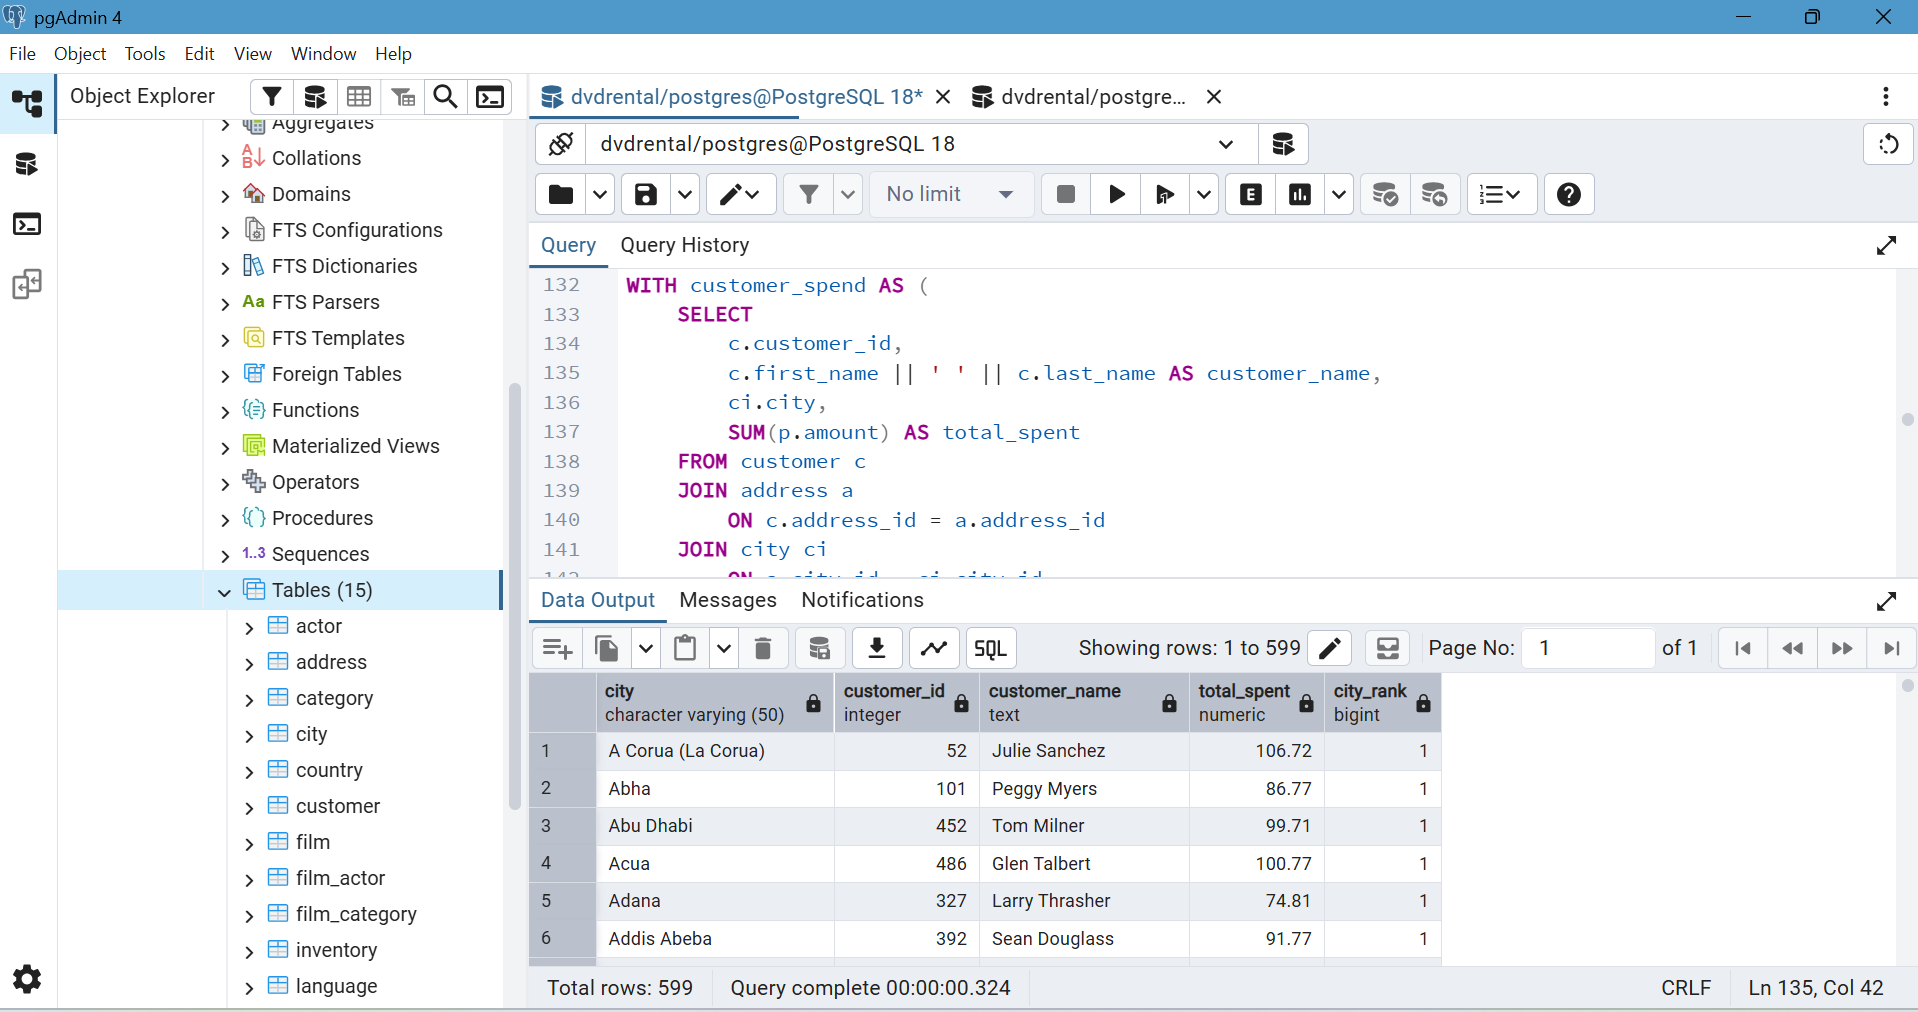
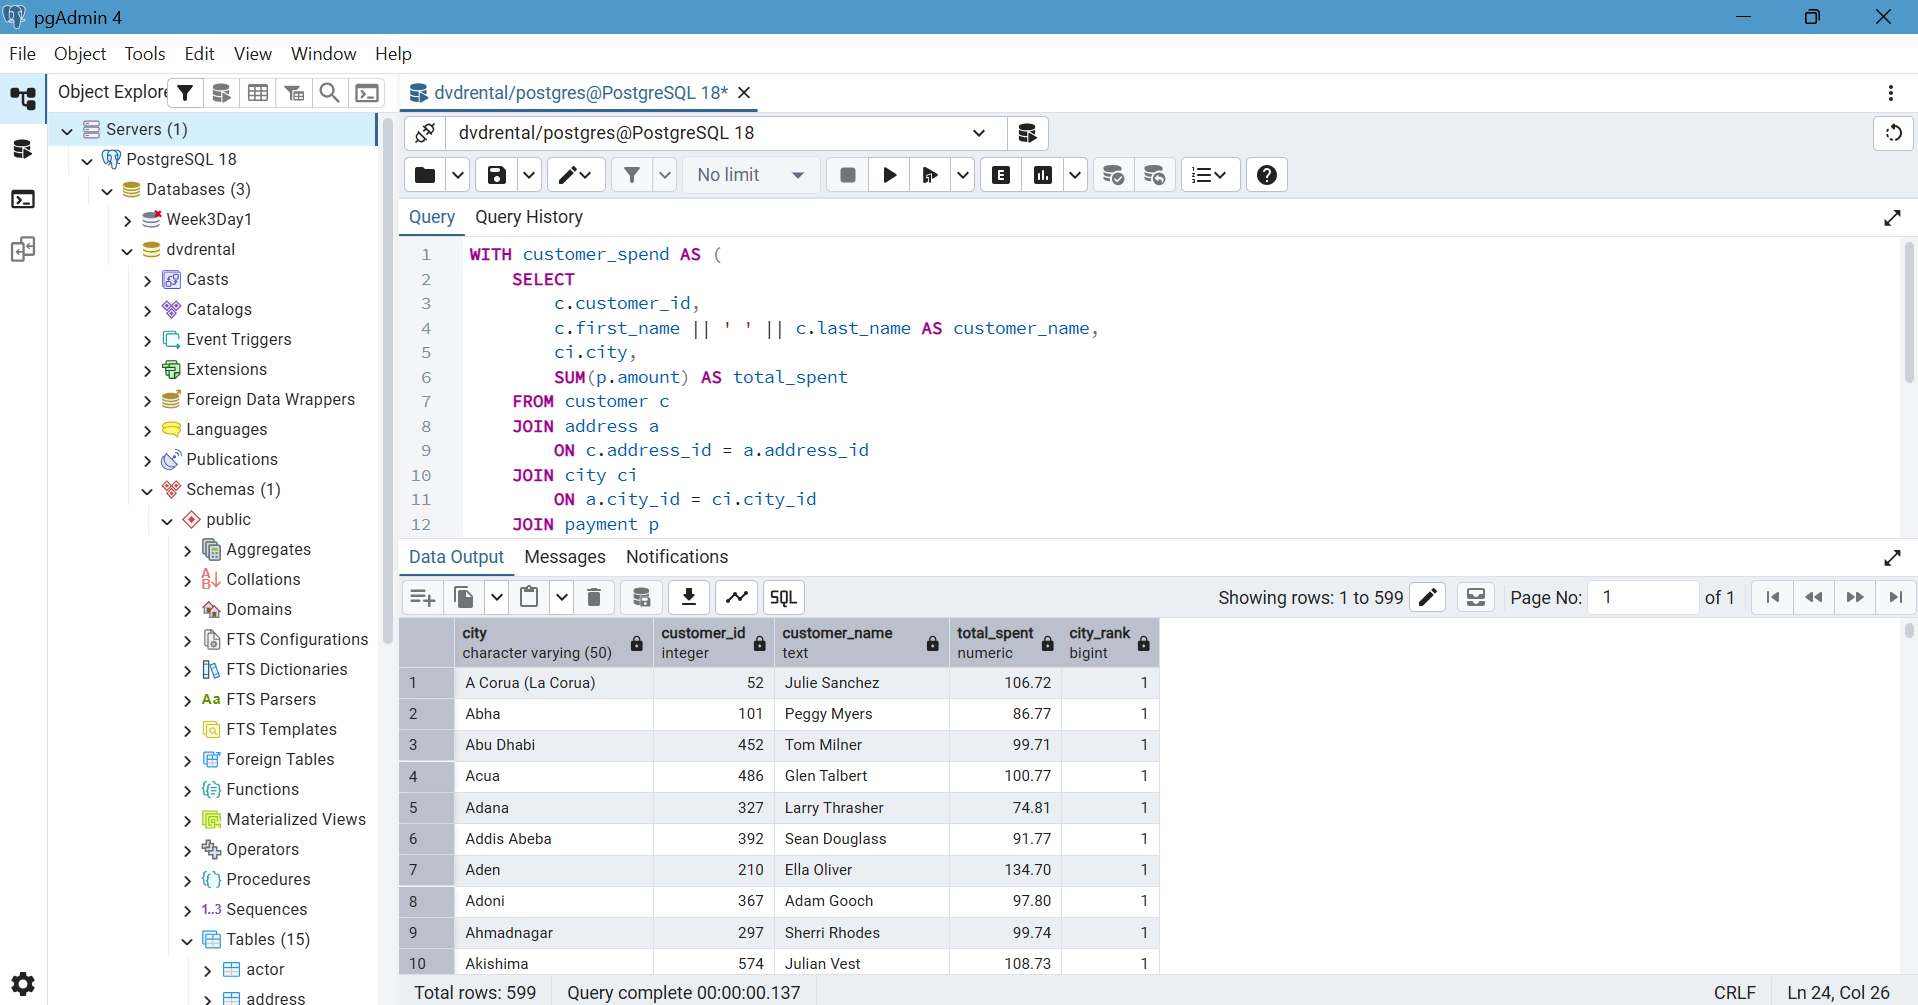
day 3

diff --git a/Week 3/Day 3/Concept_check.md b/Week 3/Day 3/Concept_check.md
@@ -1,22 +1,16 @@
-# Concept Check: SQL Aggregation, Subqueries & CTEs
+# Concept Check
 
-## 1. What is the difference between `WHERE` and `HAVING`?
+### 1. What is the difference between WHERE and HAVING?
 
-- `WHERE` filters rows **before** grouping.
-- `HAVING` filters groups **after** `GROUP BY`.
-- `WHERE` cannot use aggregate functions, while `HAVING` can.
+WHERE filters the raw rows before anything gets grouped. HAVING filters after GROUP BY has already done its thing, so it works on the grouped totals instead of individual rows.
 
-**Example:**
+Basically if I want to filter on something like SUM() or COUNT(), it has to be HAVING, since that number doesn't exist yet when WHERE runs.
 
 ```sql
--- WHERE filters rows
-SELECT *
-FROM payment
-WHERE amount > 5;
-```
+-- WHERE, filtering raw rows
+SELECT * FROM payment WHERE amount > 5;
 
-```sql
--- HAVING filters groups
+-- HAVING, filtering after grouping
 SELECT customer_id, SUM(amount) AS total_spent
 FROM payment
 GROUP BY customer_id
@@ -25,14 +19,12 @@ HAVING SUM(amount) > 150;
 
 ---
 
-## 2. When would you use a correlated subquery instead of a JOIN?
+### 2. When would you use a correlated subquery instead of a JOIN?
 
-A correlated subquery is used when the inner query depends on the current row of the outer query. It executes once for each row returned by the outer query.
-
-**Example:**
+When the inner query actually needs info from the outer row to run, like "give me the max rate in THIS film's category." A regular join can't really do a per-row comparison like that on its own, it just combines tables. A correlated subquery re-runs once per outer row because it's referencing that row.
 
 ```sql
-SELECT c.name, f.title
+SELECT f.title, c.name
 FROM film f
 JOIN film_category fc ON f.film_id = fc.film_id
 JOIN category c ON fc.category_id = c.category_id
@@ -46,16 +38,11 @@ WHERE f.rental_rate = (
 
 ---
 
-## 3. What is a CTE, and why is it more readable than a nested subquery?
+### 3. What is a CTE, and why is it more readable than a nested subquery?
 
-A **Common Table Expression (CTE)** is a temporary result set created using the `WITH` clause. It exists only during the execution of the query.
+A CTE is just a query you name using WITH, so you can reuse it or build on it later in the same statement. It's basically a temporary named result that only exists while that query runs.
 
-CTEs improve readability because they:
-- Break complex queries into smaller steps.
-- Give meaningful names to intermediate results.
-- Make queries easier to read, debug, and maintain.
-
-**Example:**
+The reason it's more readable is nested subqueries force you to read from the inside out, which gets confusing fast once you're 2-3 levels deep. A CTE reads top to bottom like steps: do this first, then do that with it.
 
 ```sql
 WITH customer_totals AS (
@@ -63,22 +50,19 @@ WITH customer_totals AS (
     FROM payment
     GROUP BY customer_id
 )
-SELECT *
-FROM customer_totals
-WHERE total_spent > 100;
+SELECT * FROM customer_totals WHERE total_spent > 100;
 ```
 
 ---
 
-## 4. Explain the difference between `RANK()` and `DENSE_RANK()`.
+### 4. Explain the difference between RANK() and DENSE_RANK().
 
-Both functions assign rankings, but they handle ties differently.
+Both give a ranking, the only difference is what happens after a tie.
 
-- `RANK()` skips the next rank after a tie.
-- `DENSE_RANK()` does not skip ranks.
+RANK() leaves a gap, so if two rows tie for 2nd, the next row jumps to 4th. DENSE_RANK() doesn't leave that gap, so the next row is just 3rd.
 
-| Score | RANK() | DENSE_RANK() |
-|------:|-------:|-------------:|
+| score | RANK() | DENSE_RANK() |
+|---|---|---|
 | 98 | 1 | 1 |
 | 92 | 2 | 2 |
 | 92 | 2 | 2 |
@@ -86,71 +70,42 @@ Both functions assign rankings, but they handle ties differently.
 
 ---
 
-## 5. What does `PARTITION BY` do differently from `GROUP BY`?
+### 5. What does PARTITION BY do differently from GROUP BY?
 
-- `GROUP BY` combines rows into one row per group.
-- `PARTITION BY` keeps all rows and performs calculations separately within each partition.
-
-**Example:**
+GROUP BY squashes everything into one row per group, you lose the individual rows. PARTITION BY keeps every row but still lets you calculate something per group, like a running total or a rank, right next to the original data.
 
 ```sql
-SELECT customer_id,
-       amount,
+SELECT customer_id, amount,
        SUM(amount) OVER (PARTITION BY customer_id) AS total_spent
 FROM payment;
 ```
 
+Here you still see every payment row, just with each customer's total tagged on next to it.
+
 ---
 
-## 6. Can a subquery return multiple rows? What operator would you use in that case?
+### 6. Can a subquery return multiple rows? What operator would you use in that case?
 
-Yes. A subquery can return multiple rows.
-
-Use operators such as:
-
-- `IN`
-- `NOT IN`
-- `EXISTS`
-- `NOT EXISTS`
-- `ANY`
-- `ALL`
-
-**Example:**
+Yeah, plenty of subqueries return more than one row, you just can't use = on those, since = only expects one value. Instead use IN, NOT IN, EXISTS, NOT EXISTS, ANY, or ALL.
 
 ```sql
-SELECT *
-FROM customer
+SELECT * FROM customer
 WHERE customer_id IN (
-    SELECT customer_id
-    FROM payment
-    WHERE amount > 10
+    SELECT customer_id FROM payment WHERE amount > 10
 );
 ```
 
 ---
 
-## 7. Give an example of when `CASE WHEN` is useful inside an aggregate function.
+### 7. Give an example of when CASE WHEN is useful inside an aggregate function.
 
-`CASE WHEN` is commonly used for **conditional aggregation**, where only rows meeting a condition are included in the calculation.
-
-**Example: Sum payments greater than $5**
+When we want to count or sum only rows that meet some condition, without writing a separate query for it. It's basically a way to sneak an if/else into an aggregate.
 
 ```sql
 SELECT
-    SUM(CASE
-            WHEN amount > 5 THEN amount
-            ELSE 0
-        END) AS high_value_revenue
+    SUM(CASE WHEN amount > 5 THEN amount ELSE 0 END) AS high_value_revenue,
+    SUM(CASE WHEN amount > 5 THEN 1 ELSE 0 END) AS high_value_payments
 FROM payment;
 ```
 
-**Example: Count payments greater than $5**
-
-```sql
-SELECT
-    SUM(CASE
-            WHEN amount > 5 THEN 1
-            ELSE 0
-        END) AS high_value_payments
-FROM payment;
-```
+Both numbers come out of the same table scan instead of running two separate queries.

diff --git a/Week 3/Day 3/Readme.md b/Week 3/Day 3/Readme.md
@@ -130,7 +130,7 @@ screenshots/
     Part 1/
     Part 2/
     Part 3/
-    Bonus Challenge/
+    Bonus Challenge
 ```
 
 ---
